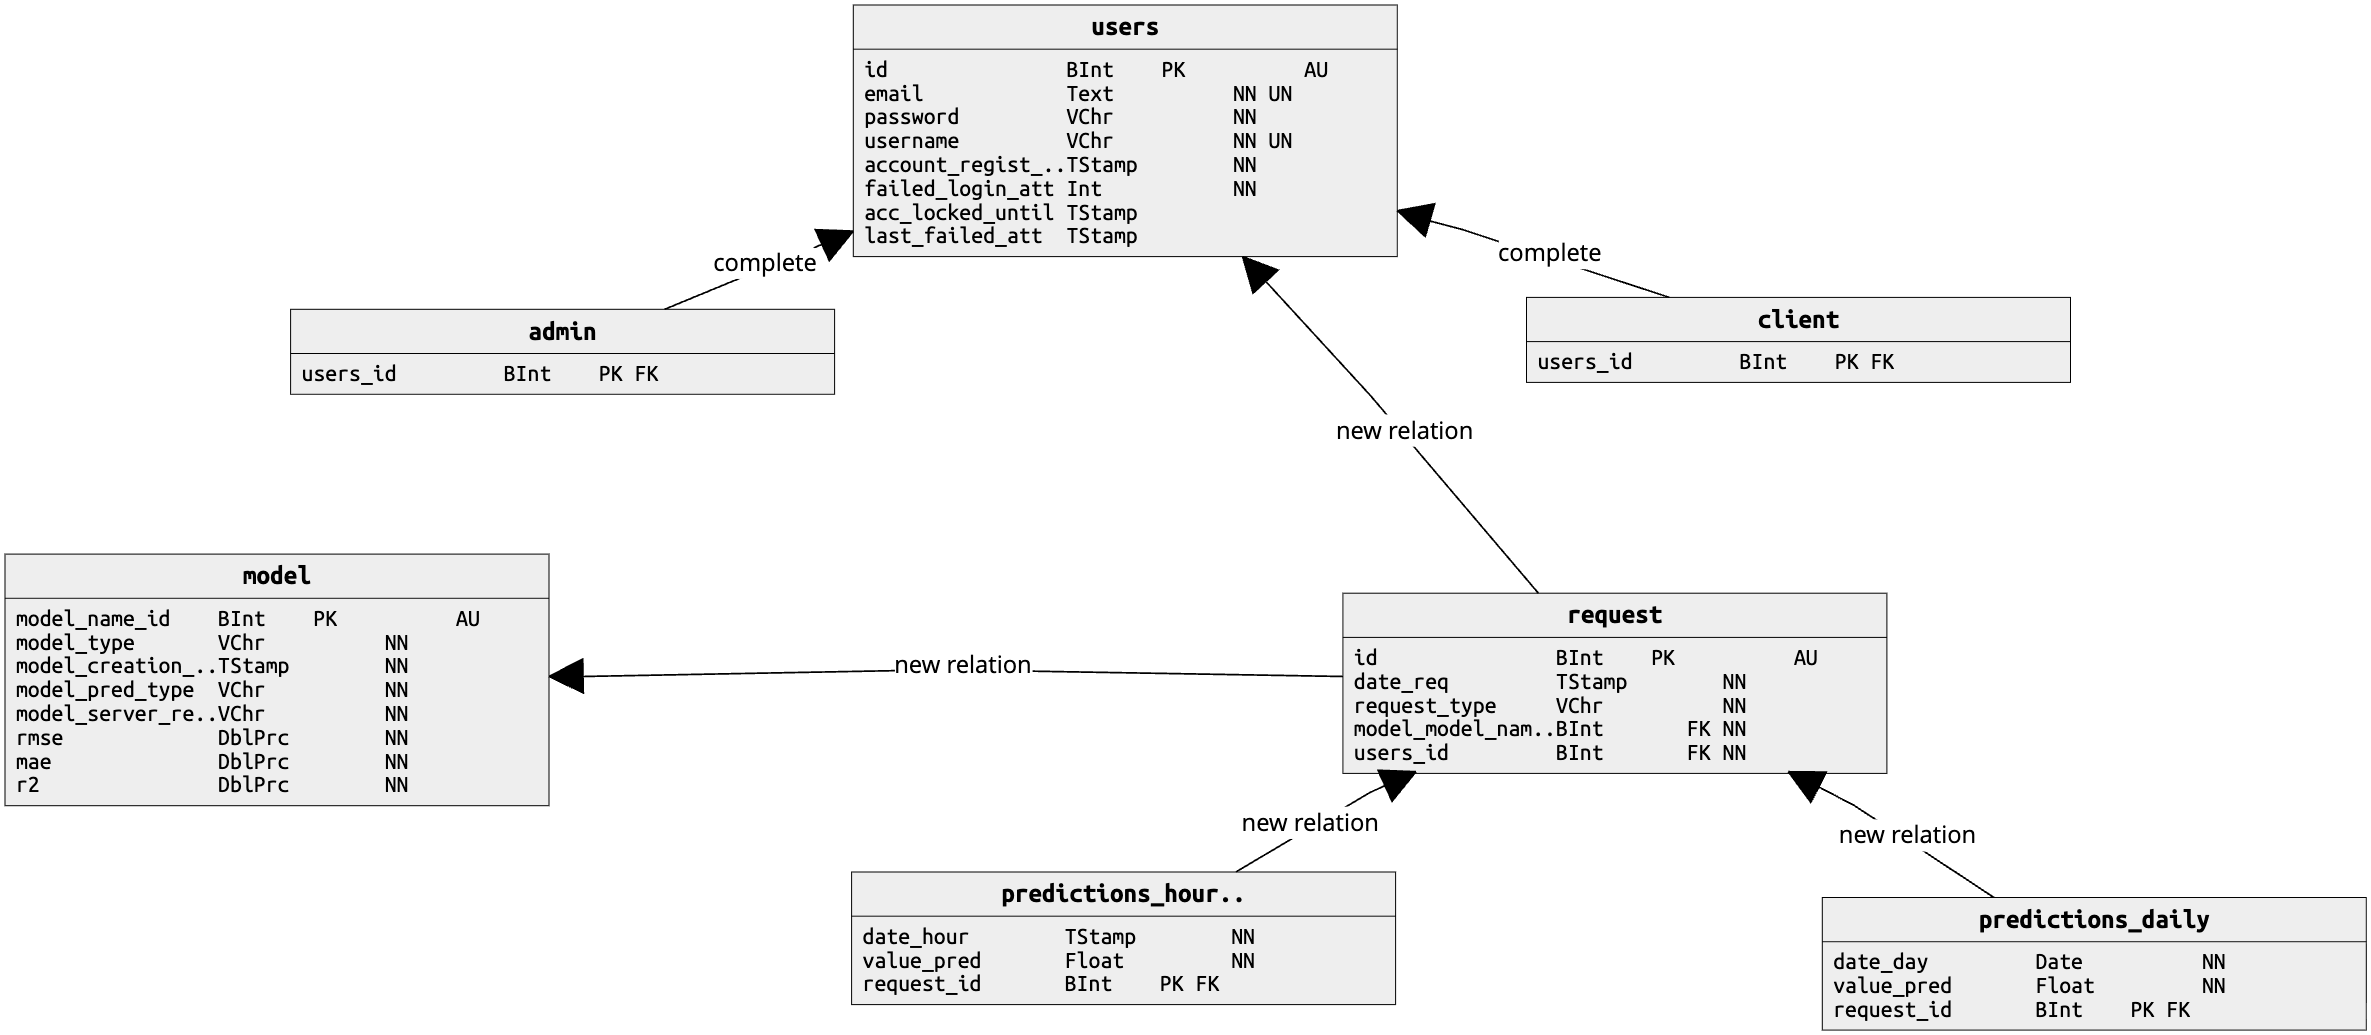
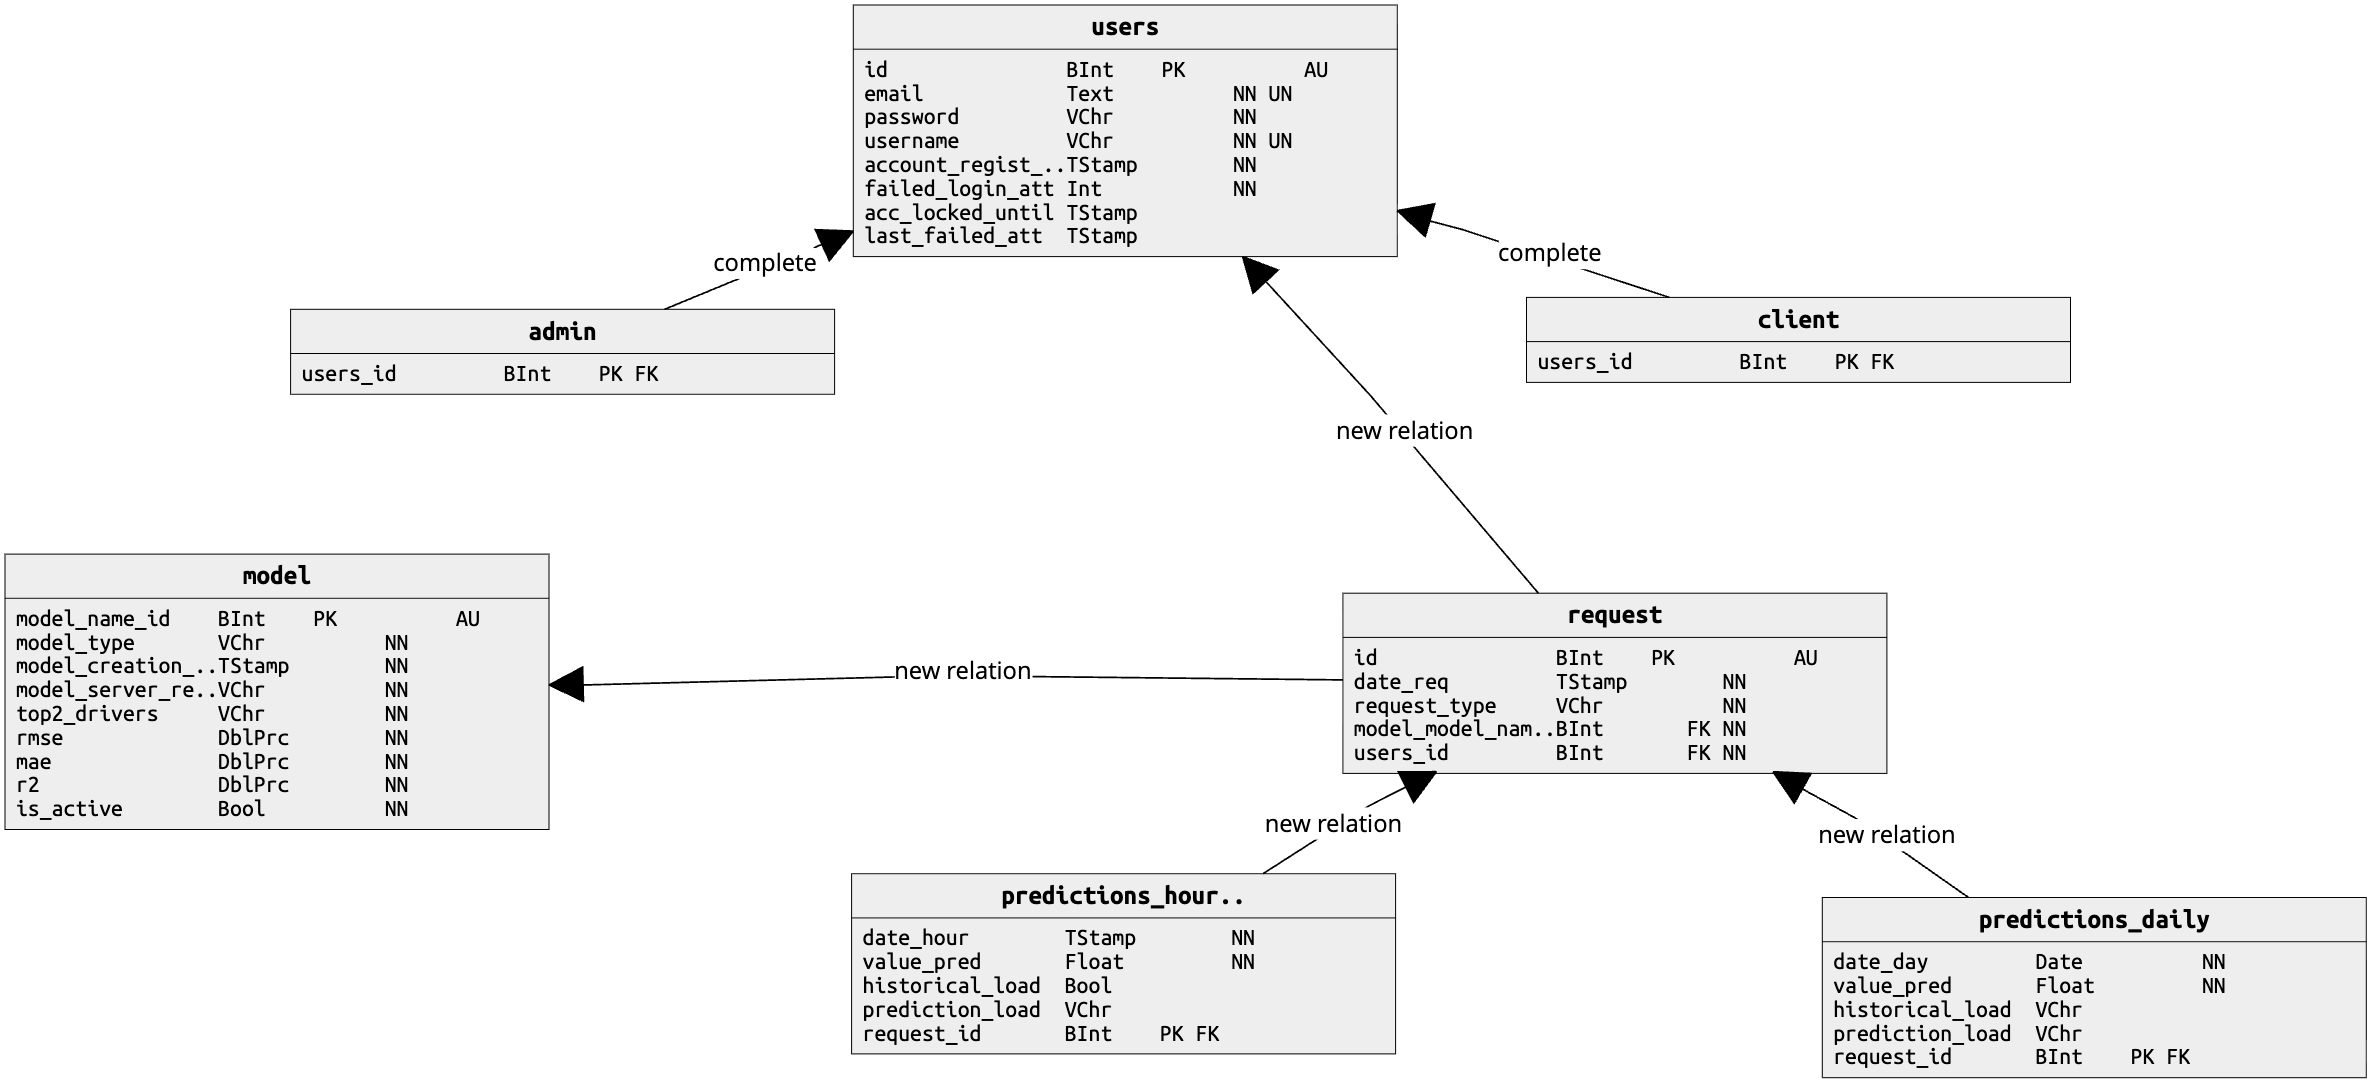
Desgin alteration complete

diff --git a/Design/DESIGN.md b/Design/DESIGN.md
@@ -463,6 +463,7 @@ Stores metadata and performance metrics of the trained models.
 | `rmse` | DOUBLE PRECISION | Not Null | Root Mean Square Error metric of the winning fold. |
 | `mae` | DOUBLE PRECISION | Not Null | Mean Absolute Error metric of the winning fold. |
 | `r2` | DOUBLE PRECISION | Not Null | R-squared metric of the winning fold. |
+| `is_active` | BOOLEAN | Not Null, Default: FALSE | Indicates if the model is currently active in production. |
 
 **Table `request`**
 Logs the history of prediction requests made by users.
@@ -487,6 +488,8 @@ Stores predictions with daily granularity.
 | `request_id` | BigInt | PK, FK | The origin request. |
 | `date_day` | Date | PK, Not Null | The target day of the prediction. |
 | `value_pred` | Double Precision | Not Null | The predicted electricity load value. |
+| `historical_load`| JSONB | Nullable | Dynamic length historical load series used for inference. |
+| `prediction_load`| JSONB | Nullable | Dynamic length predicted load series generated by the model. |
 
 **Table `predictions_hourly`**
 Stores predictions with hourly granularity.
@@ -496,8 +499,16 @@ Stores predictions with hourly granularity.
 | `request_id` | BigInt | PK, FK | The origin request. |
 | `date_hour` | Timestamp | PK, Not Null | The target hour of the prediction. |
 | `value_pred` | Double Precision | Not Null | The predicted electricity load value. |
+| `historical_load`| JSONB | Nullable | Dynamic length historical load series used for inference. |
+| `prediction_load`| JSONB | Nullable | Dynamic length predicted load series generated by the model. |
 
 #### Architectural Rationale and Key Decisions
+
+##### Partial Unique Index for Model Management
+To ensure system stability, the database enforces that only one model of each `model_type` can be active at any given time. This is implemented via a **Partial Unique Index**. This approach allows an unlimited number of historical models to exist while guaranteeing that the inference service never encounters ambiguity when selecting the "Live" model for a specific algorithm or frequency.
+
+##### JSONB for Variable Length Series
+Predictions often involve dynamic window lengths (e.g., 7-day history vs 24-hour history). Using PostgreSQL's `JSONB` type for `historical_load` and `prediction_load` allows the system to store these arbitrary-length vectors natively within the prediction record. This prevents complex joins with secondary time-series tables and ensures that the exact input/output "snapshot" used during a specific request is perfectly preserved for audit and visualization.
 
 ##### Role-Based Access Control via Table Inheritance
 Instead of relying on a single, monolithic `users` table with sparse, nullable columns to accommodate different roles, the database employs a strict "Table-per-Type" inheritance pattern. The `users` table acts as the base entity containing universally required attributes (e.g., authentication credentials, login attempts). Role-specific tables (`admin` and `client`) reference this base table using their primary key as a foreign key. This guarantees zero null-column bloat and makes the system highly extensible if new roles are needed in the future. Furthermore, the aggressive implementation of `ON DELETE CASCADE` across these constraints offloads lifecycle management to the database engine. If a core user account is purged, all associated roles, prediction requests, and generated time-series data are instantaneously and safely destroyed, eliminating the risk of orphaned records.
